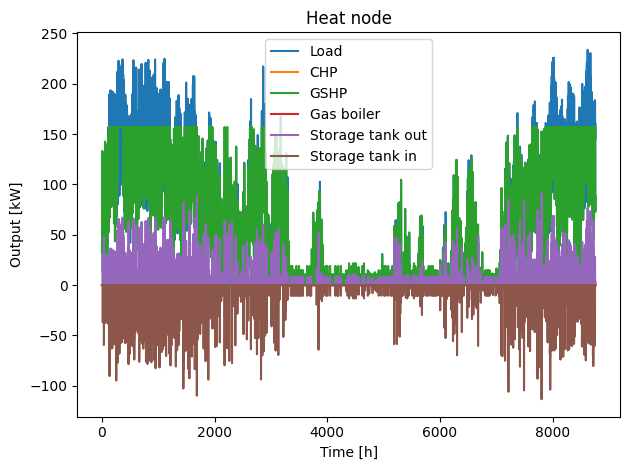
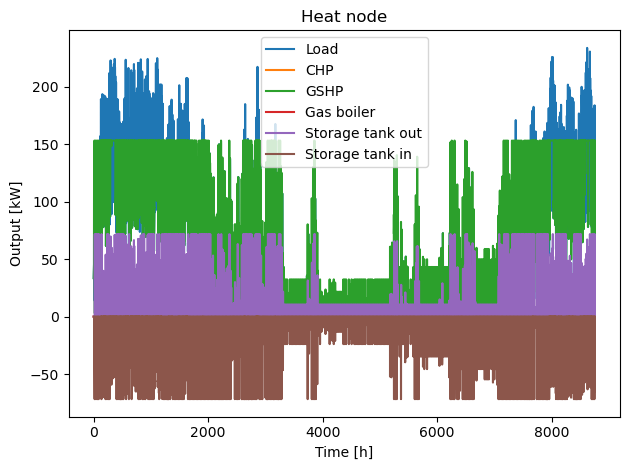
added elec/gas prices & emission factors + source

diff --git a/EnergyHub.py b/EnergyHub.py
@@ -54,13 +54,13 @@ Exp_elec = cp.Variable(Horizon)  # Electricity export from the grid for every ti
 
 # Parameter definitions
 # ---------------------
-price_gas = 100  # Natural gas price [CHF, EUR, USD/kWh] #ToDO find this for Brazil
+price_gas = 0.231*1.4  # Natural gas price [CHF, EUR, USD/kWh] #ToDO find this for Brazil
 esc_gas = 0.02  # Escalation rate per year for natural gas price
-price_elec = 0.15  # Grid electricity price [CHF, EUR, USD/kWh] #ToDO find this for Brazil
+price_elec = 0.18  # Grid electricity price [CHF, EUR, USD/kWh] #ToDO find this for Brazil
 esc_elec = 0.02  # Escalation rate per year for electricity price
-exp_price_elec = 0.12  # Feed-in tariff for exported electricity [CHF, EUR, USD/kWh] #ToDO find this for Brazil
+exp_price_elec = 0.0  # Feed-in tariff for exported electricity [CHF, EUR, USD/kWh] #ToDO find this for Brazil
 esc_elec_exp = 0.02  # Escalation rate per year for feed-in tariff for exported electricity [%]
-co2_gas = 0.198  # Natural gas emission factor [kgCO2/kWh]
+co2_gas = 0.1295  # Natural gas emission factor [kgCO2/kWh]
 co2_elec = 0.0  # Electricity emission factor [kgCO2/kWh] #ToDO find this for Brazil
 
 # Constraint definitions
@@ -171,7 +171,7 @@ cut_out_wind_speed = 25  # Cut-off wind speed [m/s]
 cut_in_wind_speed = 3  # Cut-in wind speed [m/s]
 rated_wind_speed = 12.5  # Rated wind speed [m/s]
 cost_wind = 1600  # Investment cost for wind turbines [CHF, EUR, USD/kW]
-max_wind_cap = 1e2  # Maximum possible capacity of wind turbines that can be accommodated [kW]
+max_wind_cap = 0  # Maximum possible capacity of wind turbines that can be accommodated [kW]
 
 # Capacity variable
 # -----------------
@@ -194,7 +194,7 @@ for t in np.arange(0, 8760):
         wind_con = wind_con + [P_out_wind[t] == Cap_wind * (wind.loc[t, 'Wind speed [m/s]'] - cut_in_wind_speed) / (
                     rated_wind_speed - cut_in_wind_speed)]
 
-# Thermal storage tank
+# Thermal storage tank  --> not considered
 # =====================
 
 # Definitions
@@ -219,7 +219,7 @@ E_ts = cp.Variable(Horizon + 1)  # Stored energy in thermal storage tank [kWh]
 
 # Storage tank constraints
 # ------------------------
-ts_con_1 = [Cap_ts >= 0, Q_in_ts >= 0, Q_out_ts >= 0, E_ts >= 0, E_ts <= Cap_ts, Q_in_ts <= max_ch_ts * Cap_ts,
+ts_con_1 = [Cap_ts == 0, Q_in_ts >= 0, Q_out_ts >= 0, E_ts >= 0, E_ts <= Cap_ts, Q_in_ts <= max_ch_ts * Cap_ts,
             Q_out_ts <= max_dis_ts * Cap_ts]
 
 # Storage constraints
@@ -308,7 +308,7 @@ constraints = grid_con + gb_con + gshp_con + chp_con + pv_con + wind_con + ts_co
 # Optimize the design of the energy system
 # ----------------------------------------
 print('Installed solvers:', cp.installed_solvers())
-prob.solve(solver='SCIPY')
+#prob.solve(solver='SCIPY')
 
 #Multi Objective Optimization -> cost and co2
 eta = [i/10 for i in range(1,10,1)]
